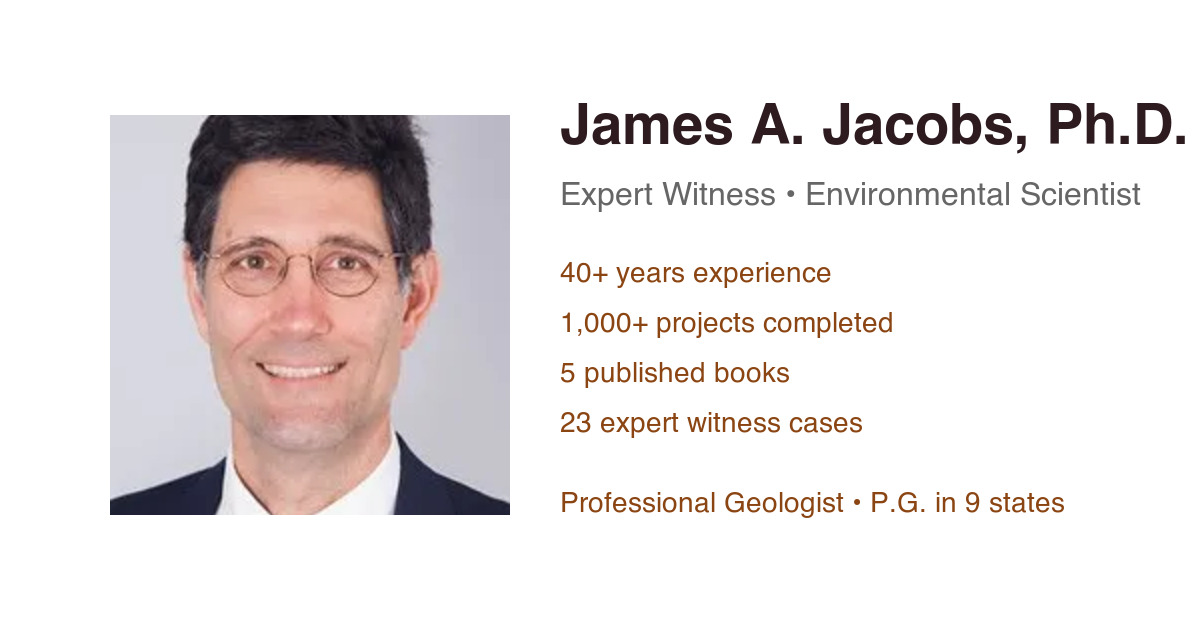
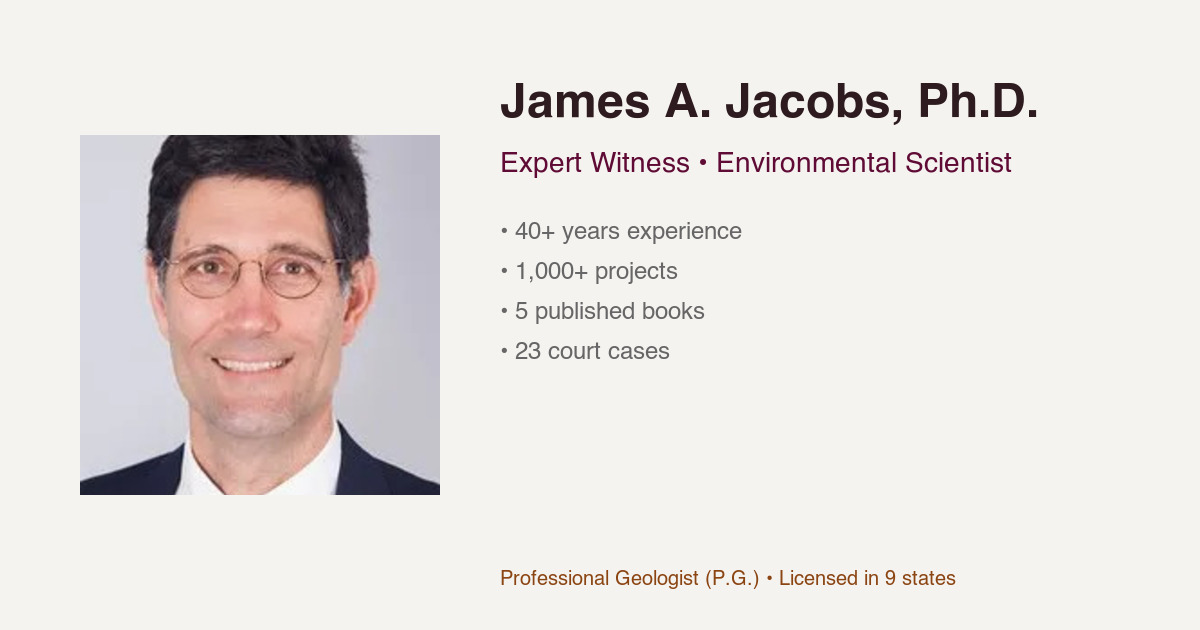
Add OpenGraph and Twitter Card social sharing images
Changes:
- Created professional OG image (1200×630px, 77KB)
- Features profile photo with key credentials and stats
- Updated index.html meta tags to use og-image.jpg
- Added image dimensions and alt text for better SEO
- Converted profile from WebP to JPG for compatibility
- Rebuilt demo site with new OG image

Social sharing now shows:
- James A. Jacobs, Ph.D.
- Expert Witness • Environmental Scientist
- 40+ years experience
- 1,000+ projects
- 5 published books
- 23 court cases
- P.G. licensed in 9 states

Image optimized for LinkedIn, Twitter, Facebook, Slack

diff --git a/demo-site/index.html b/demo-site/index.html
@@ -21,7 +21,10 @@
     <meta property="og:url" content="https://jamesajacobs.net/demo/" />
     <meta property="og:title" content="James A. Jacobs, Ph.D. | Expert Witness & Environmental Geologist" />
     <meta property="og:description" content="Expert witness testimony, environmental site assessment, and sewer air testing. 40+ years experience, 1,000+ projects, licensed P.G. in 9 states." />
-    <meta property="og:image" content="https://jamesajacobs.net/demo/jamesajacobs_profile.webp" />
+    <meta property="og:image" content="https://jamesajacobs.net/demo/og-image.jpg" />
+    <meta property="og:image:width" content="1200" />
+    <meta property="og:image:height" content="630" />
+    <meta property="og:image:alt" content="James A. Jacobs, Ph.D. - Expert Witness & Environmental Scientist with 40+ years experience" />
     <meta property="og:site_name" content="James A. Jacobs" />
     <meta property="og:locale" content="en_US" />
 
@@ -30,8 +33,8 @@
     <meta property="twitter:url" content="https://jamesajacobs.net/demo/" />
     <meta property="twitter:title" content="James A. Jacobs, Ph.D. | Expert Witness & Environmental Geologist" />
     <meta property="twitter:description" content="Expert witness testimony, environmental site assessment, and sewer air testing. 40+ years experience, 1,000+ projects." />
-    <meta property="twitter:image" content="https://jamesajacobs.net/demo/jamesajacobs_profile.webp" />
-    <meta property="twitter:image:alt" content="James A. Jacobs, Professional Geologist" />
+    <meta property="twitter:image" content="https://jamesajacobs.net/demo/og-image.jpg" />
+    <meta property="twitter:image:alt" content="James A. Jacobs, Ph.D. - 40+ years experience, 1,000+ projects, 5 books, 23 court cases" />
 
     <!-- Theme Color -->
     <meta name="theme-color" content="#2c3e2d" />

diff --git a/demo/index.html b/demo/index.html
@@ -21,7 +21,10 @@
     <meta property="og:url" content="https://jamesajacobs.net/demo/" />
     <meta property="og:title" content="James A. Jacobs, Ph.D. | Expert Witness & Environmental Geologist" />
     <meta property="og:description" content="Expert witness testimony, environmental site assessment, and sewer air testing. 40+ years experience, 1,000+ projects, licensed P.G. in 9 states." />
-    <meta property="og:image" content="https://jamesajacobs.net/demo/jamesajacobs_profile.webp" />
+    <meta property="og:image" content="https://jamesajacobs.net/demo/og-image.jpg" />
+    <meta property="og:image:width" content="1200" />
+    <meta property="og:image:height" content="630" />
+    <meta property="og:image:alt" content="James A. Jacobs, Ph.D. - Expert Witness & Environmental Scientist with 40+ years experience" />
     <meta property="og:site_name" content="James A. Jacobs" />
     <meta property="og:locale" content="en_US" />
 
@@ -30,8 +33,8 @@
     <meta property="twitter:url" content="https://jamesajacobs.net/demo/" />
     <meta property="twitter:title" content="James A. Jacobs, Ph.D. | Expert Witness & Environmental Geologist" />
     <meta property="twitter:description" content="Expert witness testimony, environmental site assessment, and sewer air testing. 40+ years experience, 1,000+ projects." />
-    <meta property="twitter:image" content="https://jamesajacobs.net/demo/jamesajacobs_profile.webp" />
-    <meta property="twitter:image:alt" content="James A. Jacobs, Professional Geologist" />
+    <meta property="twitter:image" content="https://jamesajacobs.net/demo/og-image.jpg" />
+    <meta property="twitter:image:alt" content="James A. Jacobs, Ph.D. - 40+ years experience, 1,000+ projects, 5 books, 23 court cases" />
 
     <!-- Theme Color -->
     <meta name="theme-color" content="#2c3e2d" />
